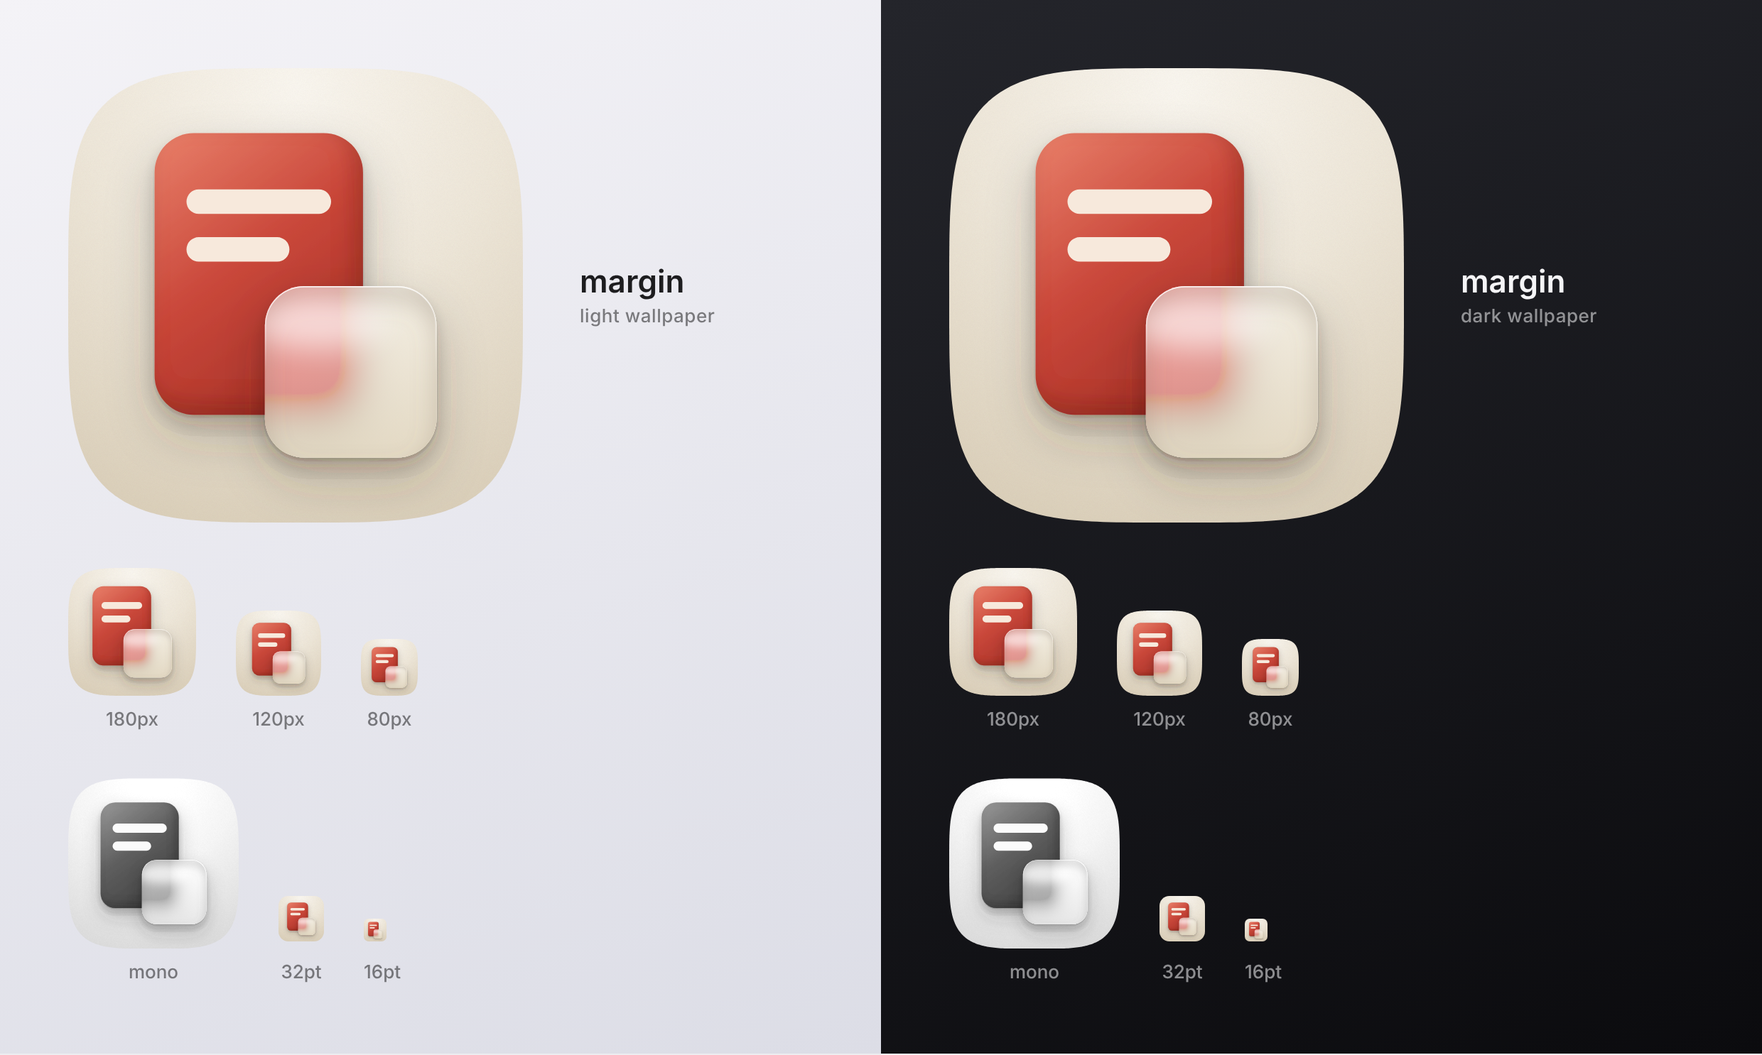
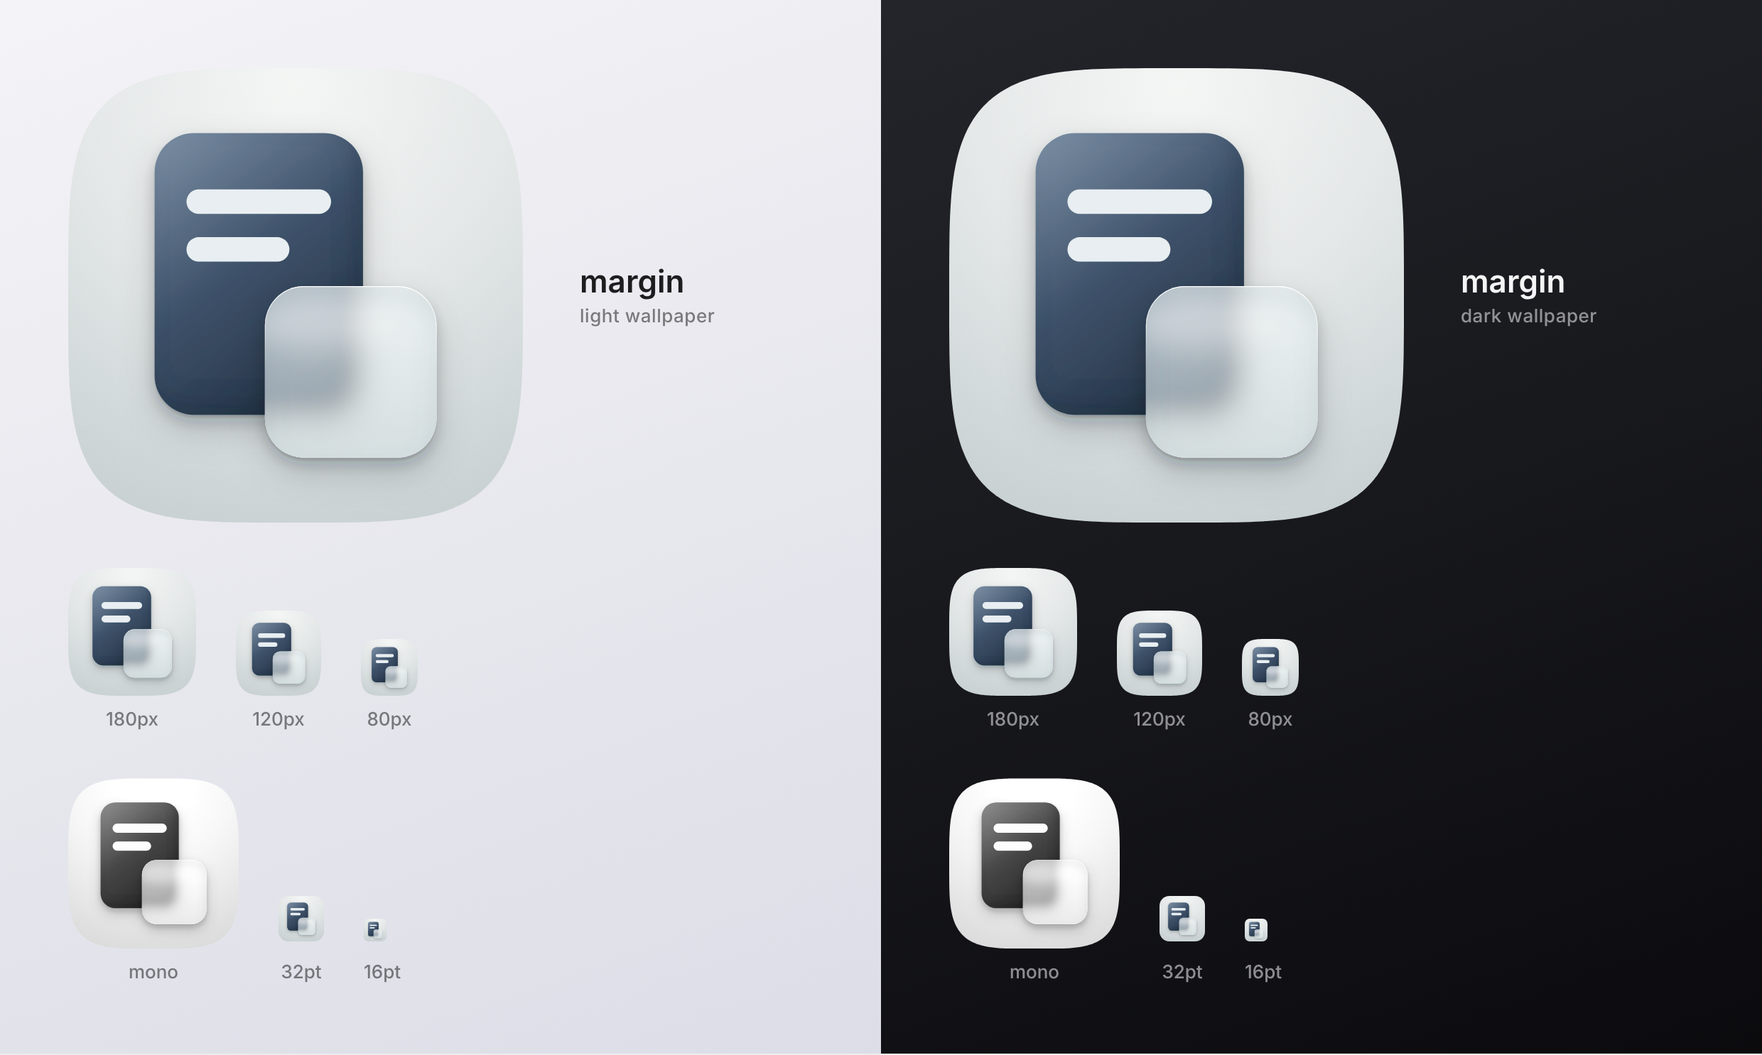
Make the single style cool-toned: minimal, tech-precise, restrained colour
Cooler grounds (玄青, 霜白), muted warm colours used only as accents, new 银白 and 黛 solids,
finer grain, tighter shadows, clearer glaze, quieter sheen and a crisp 2.5 px lip.
All six examples, the template, rules and overview updated.

Claude-Session: https://claude.ai/code/session_01Ryqgs4mNU62SDVVXv1wPwj

diff --git a/references/style.md b/references/style.md
@@ -1,15 +1,16 @@
-# 风格规则：东方质感
+# 风格规则：清冷的东方质感
 
-一句话：**Apple 的精致，宋瓷的温润。** 构造和尺寸学 Google 产品图标与 Apple 图标网格（几何、关键线、饱满的主体），光影学 Apple（体积、多层投影），材质和颜色来自中国美学：青瓷釉、传统色。
+一句话：**青瓷的釉，精密器物的冷静。** 构造和尺寸学 Google 产品图标与 Apple 图标网格（几何、关键线、饱满的主体），光影学 Apple（体积、多层投影），材质和颜色来自中国美学：青瓷釉、传统色；整体气质极简、偏科技、偏冷淡。
 
 ## 原则
 
 1. **简洁：两层就够。** 一个实色图形加一层瓷釉。不加第三个元素，没有装饰线，没有纹样。
 2. **明确：一眼看懂。** 宁可具象也不要晦涩。用户在主屏上扫一眼就该知道这是什么 app。
 3. **饱满：按 Apple 和 Google 的图标网格定尺寸。** 主体要撑得起画面，像系统自带 app 一样一眼就看到；四周保留的只是网格要求的边距，不刻意大面积留白。
-4. **温润：像瓷，不像塑料。** 釉面半透、偏厚、柔光，背后的颜色只是微微透出来；高光是一大片柔和的釉光，不是锐利的反光点。
-5. **几何：每个形都能说出尺寸。** 只用圆、圆角矩形、胶囊、扇形和它们的合并。转角大方（圆角矩形 rx ≥ 宽度的 18%），尖角用 round-join 描边磨圆。
-6. **一个光源。** 光从正上方偏左来：底色顶部最亮，实色的高光在左上、暗部在右下，阴影向下落，釉光在上方。
+4. **清冷：像青瓷，也像精密器物。** 底色偏冷偏灰，实色降饱和；釉清透，背后的颜色只是淡淡透出来；高光克制，边缘一道细而亮的切边。
+5. **克制：冷色为主，暖色只做点缀。** 一枚图标里暖色（朱砂、藤黄）的面积不超过主体的一半；能用银白、黛、石青表达的就不用暖色。
+6. **几何：每个形都能说出尺寸。** 只用圆、圆角矩形、胶囊、扇形和它们的合并。转角大方（圆角矩形 rx ≥ 宽度的 18%），尖角用 round-join 描边磨圆。
+7. **一个光源。** 光从正上方偏左来：底色顶部最亮，实色的高光在左上、暗部在右下，阴影向下落，釉光在上方。
 
 ## 质感从哪里来
 
@@ -17,12 +18,12 @@
 
 | 层 | 做法 | 为什么 |
 |---|---|---|
-| 底色 | 一种传统色分亮 / 中 / 深三档，顶光径向渐变；叠 6% 的细颗粒 | 渐变给空间，颗粒像宣纸或素胎，让表面成为材料 |
+| 底色 | 一种冷调传统色分亮 / 中 / 深三档，顶光径向渐变；叠 3% 的细颗粒 | 渐变给空间，极细的颗粒像素胎或磨砂金属，让表面成为材料又不显粗糙 |
 | 实色 | 「高光 → 主色 → 暗部」三段渐变，加右下方内阴影。球、日轮这类本来就是球体的用径向渐变；扇形、纸页、图表这类平面图形用左上到右下的线性渐变，否则会鼓成一颗球 | 有亮面和暗面，物体才有体积 |
-| 投影 | 三层：远（模糊 40、下移 36）、中（12、12）、贴地（2、2），颜色用底色最深的色调 | 单层阴影像贴纸，三层才像放在桌上的器物 |
-| 釉身 | 背后画面模糊 34、提饱和 1.8，盖一层釉色。透明度看**釉下面主要是什么**：主要压在深色底上 0.90 → 0.82；主要压在浅亮的实色（藤黄、竹青）上 0.80 → 0.70；浅色底上 0.72 → 0.60 | 釉比玻璃厚，颜色只「晕」出来；提饱和防止透出的颜色变脏；压在深色上太薄会透出黑色而发灰，压在亮色上太厚又像一块不透明的奶白卡片 |
-| 积釉 | 釉面下沿内侧一道柔和的深色带，颜色用釉色的深档 | 真实瓷器的釉在下沿积得更厚、颜色更深，这是瓷感的关键 |
-| 釉光 | 一片模糊 22 的白色扁椭圆，透明度 0.55，宽约为釉形状宽度的 60%，高约为自身宽度的 30%，贴在釉形状上沿内侧、略偏左；边缘一道 4 px 细亮线 | 温润的大片柔光，而不是玻璃那种锐利亮边 |
+| 投影 | 三层：远（模糊 28、下移 24）、中（12、12）、贴地（2、2），颜色见色板「投影」列 | 单层阴影像贴纸，三层才像放在桌上的器物；远影收紧，显得利落 |
+| 釉身 | 背后画面模糊 26、提饱和 1.25，盖一层釉色。透明度看**釉下面主要是什么**：主要压在深色底上 0.90 → 0.82；主要压在浅亮的实色（藤黄、银白）上 0.80 → 0.70；浅色底上 0.72 → 0.60 | 釉比玻璃厚，颜色只淡淡透出；轻微提饱和防止透出的颜色变脏，但不艳；压在深色上太薄会发灰，压在亮色上太厚又像一块不透明的奶白卡片 |
+| 积釉 | 釉面下沿内侧一道很淡的深色带（透明度 0.16），颜色用釉色的深档 | 真实瓷器的釉在下沿积得更厚，这是瓷感的来源；保持很淡，釉面才显得清透 |
+| 釉光 | 一片模糊 22 的白色扁椭圆，透明度 0.3，宽约为釉形状宽度的 60%，高约为自身宽度的 30%，贴在釉形状上沿内侧、略偏左；边缘一道 2.5 px 的纯白切边，从上往下渐隐 | 光很克制；细而亮的切边像精密加工的倒角，是科技感的来源 |
 
 只有会发光的物体（太阳、灯、火焰）才可以加一圈柔光，透明度不超过 0.28。
 
@@ -35,32 +36,33 @@
 | 光学居中 | 主体的视觉重心落在画布中心；阴影在下方，主体可以整体上移 8–16 px |
 | 安全区 | 中心 824 × 824 |
 | 底色 | 径向渐变，圆心 (512, 40)，半径 1100，三档：亮 / 中（45%）/ 深 |
-| 颗粒 | 深色底白颗粒 6%，浅色底暖褐颗粒 6% |
-| 实色内阴影 | 偏移 (-14, -18)、模糊 18，透明度 0.45，颜色见色板「内阴影」列（比暗部再深一档） |
-| 投影 | 深色底：远 0.38、中 0.26、贴地 0.2；浅色底：0.23、0.16、0.12。颜色见色板「投影」列；浅色底用中性深褐，太暖太浓会让纸面发脏 |
+| 颗粒 | 深色底白颗粒 3%，浅色底深色颗粒 3% |
+| 实色内阴影 | 偏移 (-14, -18)、模糊 18，透明度 0.28，颜色见色板「内阴影」列（比暗部再深一档） |
+| 投影 | 深色底：远 0.28、中 0.26、贴地 0.2；浅色底：0.17、0.16、0.12。颜色见色板「投影」列；浅色底用冷调深灰蓝，太浓会让底色发脏 |
 | 重叠 | 以**釉的面积**为分母，约 30%–80% 压在实色上，其余落在底色上。釉要有一段边越出实色，这段边是质感最明显的地方 |
 
 ## 传统色板
+
+全部偏冷、降饱和。暖色只有淡藤黄和淡朱砂两种，只给本身就是暖色的东西（太阳、金币、提醒、进度）。
 
 **底色**（亮 / 中 / 深）：
 
 | 名 | 色值 | 投影 | 气质 |
 |---|---|---|---|
-| 墨 | `#4A4D55 / #26282E / #0D0E11` | `#000000` | 沉静、专业、夜间 |
-| 黛蓝 | `#5B7896 / #2F4560 / #121C2A` | `#060B14` | 天空、出行、阅读 |
-| 宣纸 | `#FBF8F1 / #EFE8DA / #D9CDB6` | `#3A332A` | 书写、笔记、文化 |
-| 苍绿 | `#6C8A78 / #3B5646 / #17241D` | `#08110C` | 健康、自然、财务 |
-| 檀 | `#8A6A58 / #5A4033 / #241812` | `#120A06` | 生活、饮食、手作 |
+| 玄青 | `#3C4854 / #1A222B / #070A0E` | `#000000` | 沉静、专业、工具、夜间 |
+| 黛蓝 | `#56708A / #2A3D52 / #0E1724` | `#060B14` | 天空、出行、阅读 |
+| 霜白 | `#F6F8F8 / #E5EAEB / #C6CFD2` | `#1E2A33` | 书写、图片、轻量工具 |
+| 苍绿 | `#5F7A74 / #2C413D / #0E1817` | `#050B0A` | 健康、自然、财务 |
 
 **实色**（高光 → 主色 → 暗部）：
 
-| 名 | 色值 | 内阴影 |
-|---|---|---|
-| 朱砂 | `#F08A6E → #D9473A → #A52A22` | `#6E1712` |
-| 藤黄 | `#FBEFC8 → #EEC25A → #C98A26` | `#8A5510` |
-| 石青 | `#9CC3E0 → #3F7FB5 → #1F4A78` | `#12304F` |
-| 竹青 | `#B9DCB0 → #6BAA6A → #3A7442` | `#1F4426` |
-| 胭脂 | `#F2A0A8 → #C4485A → #8A2234` | `#5A1320` |
+| 名 | 色值 | 内阴影 | 用在 |
+|---|---|---|---|
+| 银白 | `#F3F6F7 → #B8C3CA → #6F7C86` | `#2E3940` | 默认的工具色：扫码、设置、计算、文件 |
+| 黛 | `#7D90A6 → #3E526A → #1F2C3D` | `#121B27` | 浅底上的主色：笔记、文档、日历 |
+| 石青 | `#9CC3E0 → #3F7FB5 → #1F4A78` | `#12304F` | 图片、天空、水、网络 |
+| 淡藤黄 | `#F4ECD4 → #D9B46A → #A57F3A` | `#8A5510` | 只给本来是黄色的东西：太阳、金币、灯 |
+| 淡朱砂 | `#E4836E → #BF4639 → #8A2A23` | `#6E1712` | 点缀：进度、提醒、录制；面积小于主体的一半 |
 
 **釉色**（上 → 下，积釉深档）：
 
@@ -70,16 +72,16 @@
 | 月白 | `#F4F8F6` | `#D6E3E1` | `#5E7A86` |
 | 粉青 | `#E3EFE8` | `#B3CFC3` | `#4E7A6C` |
 
-釉压在暖色（朱砂、胭脂）上时优先用月白，偏绿的天青、粉青和红混在一起容易发脏。
+釉压在淡朱砂上时优先用月白，偏绿的天青、粉青和红混在一起容易发脏。
 
-经典搭配：墨 + 朱砂 + 天青，黛蓝 + 藤黄 + 月白，宣纸 + 朱砂 + 月白，苍绿 + 藤黄 + 月白，檀 + 胭脂 + 粉青。
+经典搭配：玄青 + 淡朱砂 + 天青，黛蓝 + 淡藤黄 + 月白，霜白 + 黛 + 月白，玄青 + 银白 + 天青，霜白 + 石青 + 月白，苍绿 + 淡藤黄 + 天青。
 
 ## 不要
 
 - 字母、文字、数字、印章文字
 - 龙凤、祥云、回纹、水墨笔触这类「中国元素」符号：东方感来自材质和颜色，不来自图案
 - ✦ 闪光、大脑、魔杖这类 AI 符号
-- 高饱和的西式亮色（正红、纯蓝、荧光色）
+- 高饱和的西式亮色（正红、纯蓝、荧光色），以及大面积的暖色
 - 超过两层，超过两个色相（釉色不算）
 - 锐利的玻璃亮边、霓虹、整圈外发光（发光体除外）
 - 拟物纹理（木纹、皮革、开片裂纹）；颗粒只能是均匀的细噪点
@@ -88,10 +90,10 @@
 
 - [ ] 遮住名字，能一眼说出这是什么 app
 - [ ] 只有一个实色图形和一层釉
-- [ ] 颜色全部来自传统色板，没有西式亮色
-- [ ] 釉面温润：能看到背后颜色微微晕出，下沿有积釉，上方有大片柔光
+- [ ] 颜色全部来自传统色板，冷色为主，暖色面积小于主体的一半
+- [ ] 釉面清透：能看到背后颜色淡淡透出，下沿有很淡的积釉，上沿有一道细亮切边
 - [ ] 实色有亮面和暗面，不是一块平涂
-- [ ] 底色有三档色调和细颗粒
+- [ ] 底色有三档色调和极细的颗粒
 - [ ] 三层阴影用色板「投影」列的颜色，方向一致向下
 - [ ] 主体饱满：长边约占画布 70%，在系统遮罩的圆角里不被裁到，也不显得空
 - [ ] mono 版本的剪影仍然清楚

diff --git a/SKILL.md b/SKILL.md
@@ -1,21 +1,21 @@
 ---
 name: rian-app-icon
-description: Design app icons and logo marks as production SVG in Rian's house style, which is simple, clear and tactile and draws on Apple and Google icon design with a Chinese aesthetic (a geometric solid in a traditional colour behind a celadon-glaze shape, with generous empty space). Use when asked to create, redesign, or iterate on an app icon, app logo, or logo mark. 用于按 Rian 的风格生成 app 图标 / logo（SVG）。
+description: Design app icons and logo marks as production SVG in Rian's house style, which is simple, clear, minimal and cool-toned, with a tech-precise finish, drawing on Apple and Google icon design and a Chinese aesthetic (a muted traditional-colour solid behind a clear celadon-glaze shape with a crisp edge, sized full on the icon grid). Use when asked to create, redesign, or iterate on an app icon, app logo, or logo mark. 用于按 Rian 的风格生成 app 图标 / logo（SVG）。
 ---
 
 # Rian App Icon
 
 把一句产品描述变成一枚可以直接上架的 app 图标：1024×1024 全出血 SVG 母版、PNG 导出和一张评审对照图。
 
-只有一种风格：**简洁、明确、有质感，带东方气质**。构造学 Google（几何、关键线、自信的色块），光影学 Apple（体积、多层投影），材质和颜色来自中国美学（青瓷釉、传统色）。详细规则在 `references/style.md`，SVG 配方和平台规格在 `references/construction.md`。动笔前两份都要读。
+只有一种风格：**清冷的东方质感**：简洁、明确，偏极简、科技和冷淡。构造学 Google（几何、关键线、自信的色块），光影学 Apple（体积、多层投影），材质和颜色来自中国美学（青瓷釉、传统色）。详细规则在 `references/style.md`，SVG 配方和平台规格在 `references/construction.md`。动笔前两份都要读。
 
 ## 风格的签名
 
 每一枚图标都由同样的三层构成：
 
-1. **底色**：一种传统色，三档色调的径向渐变，加宣纸般的细颗粒
+1. **底色**：一种冷调传统色，三档色调的径向渐变，加极细的颗粒
 2. **实色图形**：一个有体积感的传统色几何形，在后面
-3. **瓷釉**：一个青瓷釉质的几何形，叠在前面，背后的颜色微微晕出；下沿积釉，上方一片柔光
+3. **瓷釉**：一个青瓷釉质的几何形，叠在前面，背后的颜色淡淡透出；下沿淡淡积釉，边缘一道细亮切边
 
 实色和瓷釉的**重叠处**是图标的视觉焦点，也是这个风格的签名。主体尺寸按 Apple 和 Google 的图标网格，长边约占画布 70%，饱满不空。
 
@@ -44,7 +44,8 @@ description: Design app icons and logo marks as production SVG in Rian's house s
 ### 3. 定颜色
 
 - 只从 `references/style.md` 的传统色板里选：一个底色、一个实色、一个釉色。
-- 底色和实色要拉开：深底配暖色（墨配朱砂、黛蓝配藤黄），或者浅底配一个浓色（宣纸配朱砂）。
+- 冷色为主：工具类默认银白或石青，暖色（淡朱砂、淡藤黄）只给本来就是暖色的东西，面积小于主体的一半。
+- 底色和实色要拉开明度：深底配亮色（玄青配银白、黛蓝配淡藤黄），浅底配深色（霜白配黛、霜白配石青）。
 - 产品有品牌色时，从色板里选最接近的传统色，不要直接用西式亮色。
 
 ### 4. 画 SVG
@@ -67,7 +68,7 @@ python3 scripts/render.py path/to/icon.svg -o renders
 |---|---|
 | 釉面发灰 | 釉主要压在深色上时，透明度提到 0.90 → 0.82；釉太薄时透出的是底色的黑 |
 | 釉像一块不透明的奶白卡片，看不到背后的颜色 | 釉主要压在浅亮的实色上时，透明度降到 0.80 → 0.70 |
-| 釉透出的颜色发脏 | 冷釉压暖色时最容易脏：压在朱砂、胭脂上改用月白 |
+| 釉透出的颜色发脏 | 冷釉压暖色时最容易脏：压在淡朱砂上改用月白 |
 | 釉面一片灰，看不出背后的颜色 | 釉要压在实色的**色块**上，而不是压在实色里的浅色细节（山、线条）上；移动釉或实色，让重叠区里主色占大半 |
 | 釉像塑料 | 检查积釉深带和左上釉光是否都在，釉光要大、要软 |
 | 重叠处没看头 | 釉面积的 30%–80% 压在实色上，并让釉有一段边越出实色、落在底色上 |
@@ -77,7 +78,7 @@ python3 scripts/render.py path/to/icon.svg -o renders
 | 浅色底上投影发褐、发脏 | 投影透明度降到 0.23 / 0.16 / 0.12，颜色换中性的 `#3A332A` |
 | 釉光太亮，釉面像一颗球 | 釉光椭圆要扁（高约为宽的 30%），放在上沿内侧，不要压在中心 |
 | 看起来很平、不高级 | 对照 `style.md` 的「质感从哪里来」六件事逐项检查 |
-| 颜色廉价、不够东方 | 换回传统色板里的颜色；底色压深、实色降饱和 |
+| 颜色廉价、太暖、不够冷静 | 换回色板里的颜色；暖色换成银白、黛或石青，或者缩小暖色面积 |
 
 打磨时**不加东西，只调准已有的东西**：比例、重叠量、颜色明度、阴影浓度。
 

diff --git a/README.md b/README.md
@@ -2,18 +2,18 @@
 
 一个 Claude skill：把一句产品描述变成一枚可以上架的 app 图标（1024 SVG 母版 + PNG + 评审对照图）。
 
-风格只有一种：**简洁、明确、有质感，带东方气质**。几何构造学 Google，光影学 Apple，材质和颜色来自中国美学。每枚图标都是同样的三层：传统色的底，一个有体积的实色几何形，一层叠在前面的青瓷釉；主体按 Apple 和 Google 的图标网格撑满画面。
+风格只有一种：**清冷的东方质感**，简洁、明确，偏极简、科技和冷淡。几何构造学 Google，光影学 Apple，材质和颜色来自中国美学。每枚图标都是同样的三层：冷调传统色的底，一个有体积的实色几何形，一层叠在前面、带细亮切边的青瓷釉；主体按 Apple 和 Google 的图标网格撑满画面。
 
 ![示例](examples/renders/overview.png)
 
 | 示例 | 配色 | 画了什么 |
 |---|---|---|
-| Tide 专注计时 | 墨 · 朱砂 · 天青釉 | 25 分钟的进度圆弧，釉面表盘 |
-| Halo 天气 | 黛蓝 · 藤黄 · 月白釉 | 太阳，釉面云 |
-| Margin 笔记 | 宣纸 · 朱砂 · 月白釉 | 红笺，釉面便签 |
-| QR Code Scanner | 墨 · 藤黄 · 天青釉 | 二维码，釉面扫描条 |
-| Image Compressor | 宣纸 · 石青 · 月白釉 | 风景照，右上角一块更小的釉面副本 |
-| Ledgerly 记账 | 苍绿 · 藤黄 · 月白釉 | 饼图，抽出一块釉面切片（由一个只读过 skill 的新 Claude 画出，用来验证 skill） |
+| Tide 专注计时 | 玄青 · 淡朱砂 · 天青釉 | 25 分钟的进度圆弧，釉面表盘 |
+| Halo 天气 | 黛蓝 · 淡藤黄 · 月白釉 | 太阳，釉面云 |
+| Margin 笔记 | 霜白 · 黛 · 月白釉 | 信笺，釉面便签 |
+| QR Code Scanner | 玄青 · 银白 · 天青釉 | 二维码，釉面扫描条 |
+| Image Compressor | 霜白 · 石青 · 月白釉 | 风景照，右上角一块更小的釉面副本 |
+| Ledgerly 记账 | 苍绿 · 淡藤黄 · 天青釉 | 饼图，抽出一块釉面切片（由一个只读过 skill 的新 Claude 画出，用来验证 skill） |
 
 ## 安装
 

diff --git a/references/sources.md b/references/sources.md
@@ -5,7 +5,7 @@
 | 项目 | 借鉴了什么 | 许可 |
 |---|---|---|
 | [Apple Human Interface Guidelines · App icons](https://developer.apple.com/design/human-interface-guidelines/app-icons) | 1024 全出血母版、系统遮罩、分层图标与 Icon Composer、简洁可辨识的原则 | 设计规范（仅参考） |
-| 宋代青瓷（汝窑、龙泉窑）与中国传统色 | 釉色（天青、月白、粉青）、积釉与温润的釉光；墨、黛蓝、宣纸、朱砂、藤黄等配色 | 文化参考 |
+| 宋代青瓷（汝窑、龙泉窑）与中国传统色 | 釉色（天青、月白、粉青）与积釉；玄青、黛蓝、霜白、石青、藤黄、朱砂等配色 | 文化参考 |
 | [Material Design 3](https://m3.material.io/) 与 Google 产品图标规范 | 几何构造与关键线、色块、两段式投影（环境光 + 接触光）、自适应图标安全区 | 设计规范（仅参考） |
 | [anthropics/skills · canvas-design](https://github.com/anthropics/skills/tree/main/skills/canvas-design) | 「先定义设计哲学再动手」的两段式流程；打磨阶段「只精修、不加东西」的原则；对工艺感的反复强调 | Apache-2.0 |
 | [anthropics/skills · frontend-design](https://github.com/anthropics/skills/tree/main/skills/frontend-design) | 列出 AI 生成设计的常见特征并主动避开；先写方案、对照需求自审、再执行 | Apache-2.0 |

diff --git a/references/construction.md b/references/construction.md
@@ -17,7 +17,7 @@
      glaze-shape + glaze 釉色                 → 釉身
      glaze-shape + pool                       → 下沿积釉
      白色椭圆 + soft                           → 左上一片釉光
-  3. lip 4 px 描边，裁切到内部                 → 边缘一道细亮线
+  3. lip 2.5 px 描边，裁切到内部               → 边缘一道细亮切边
 ```
 
 要点：
@@ -49,7 +49,7 @@
 | 平台 | 要什么 | 备注 |
 |---|---|---|
 | iOS / iPadOS / macOS | 1024 × 1024 PNG，不透明，无圆角 | Xcode 单尺寸 App Icon；或者把三层导入 Icon Composer |
-| iOS 深色模式 | 底色换成墨，实色和釉保持 | 从同一份 SVG 改 `#bg` 渐变即可 |
+| iOS 深色模式 | 底色换成玄青，实色和釉保持 | 从同一份 SVG 改 `#bg` 渐变即可 |
 | iOS 着色模式 | 透明背景上的白色剪影 | 实色 + 釉合并成一个白色剪影 |
 | Android 自适应图标 | 108 dp 画布，前景在中心 66 dp 圆内 | 等价于 1024 画布中心约 626 px 的圆：导出 Android 版时把 k 再乘 0.85 左右，让主体落进这个圆 |
 | Android 单色图标 | 主体单色剪影 | 同 iOS 着色模式 |
